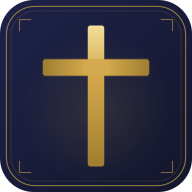
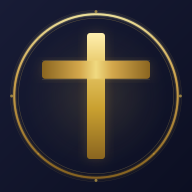
feat: 아이콘 업그레이드 — Circle Medallion (Concept B)
원형 금링 테두리로 교체하여 iOS/Android/One UI 전 플랫폼에서
동일한 고급스러운 경험 제공. SW 캐시 v76→v77 업데이트.

Changed region(s): [[0.0, 0.0, 1.0, 1.0]]

diff --git a/sw.js b/sw.js
@@ -1,4 +1,4 @@
-const CACHE_NAME = 'passport-cross-v76';
+const CACHE_NAME = 'passport-cross-v77';
 const ASSETS = [
   './',
   './index.html',
